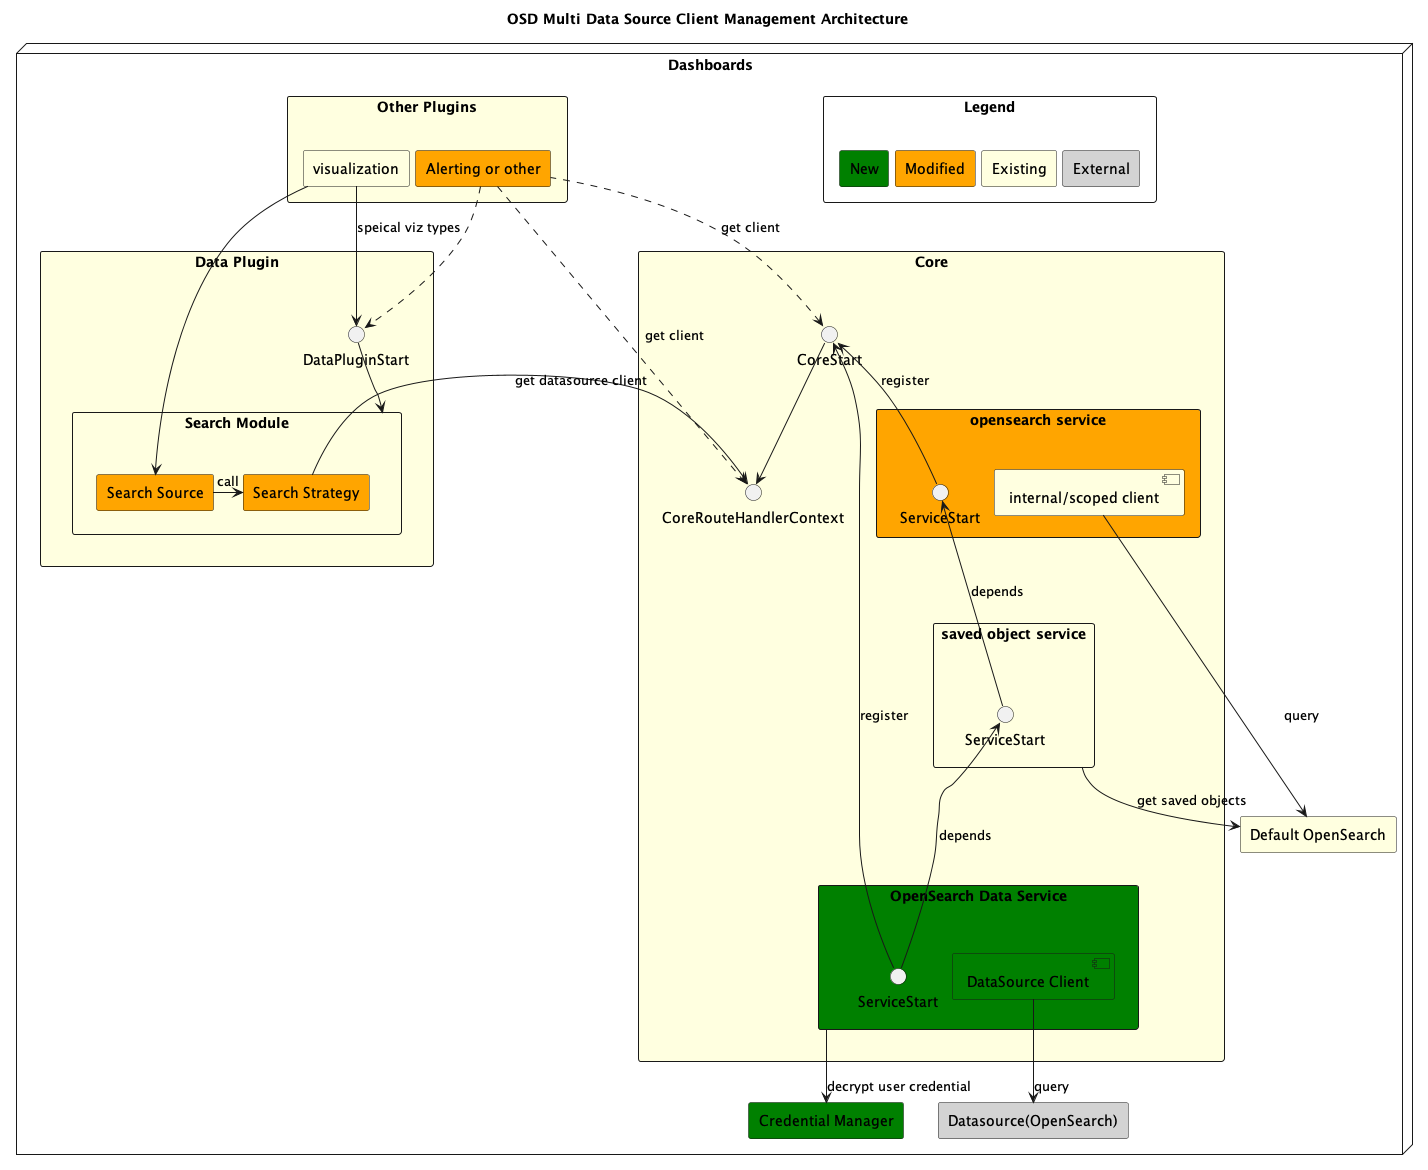
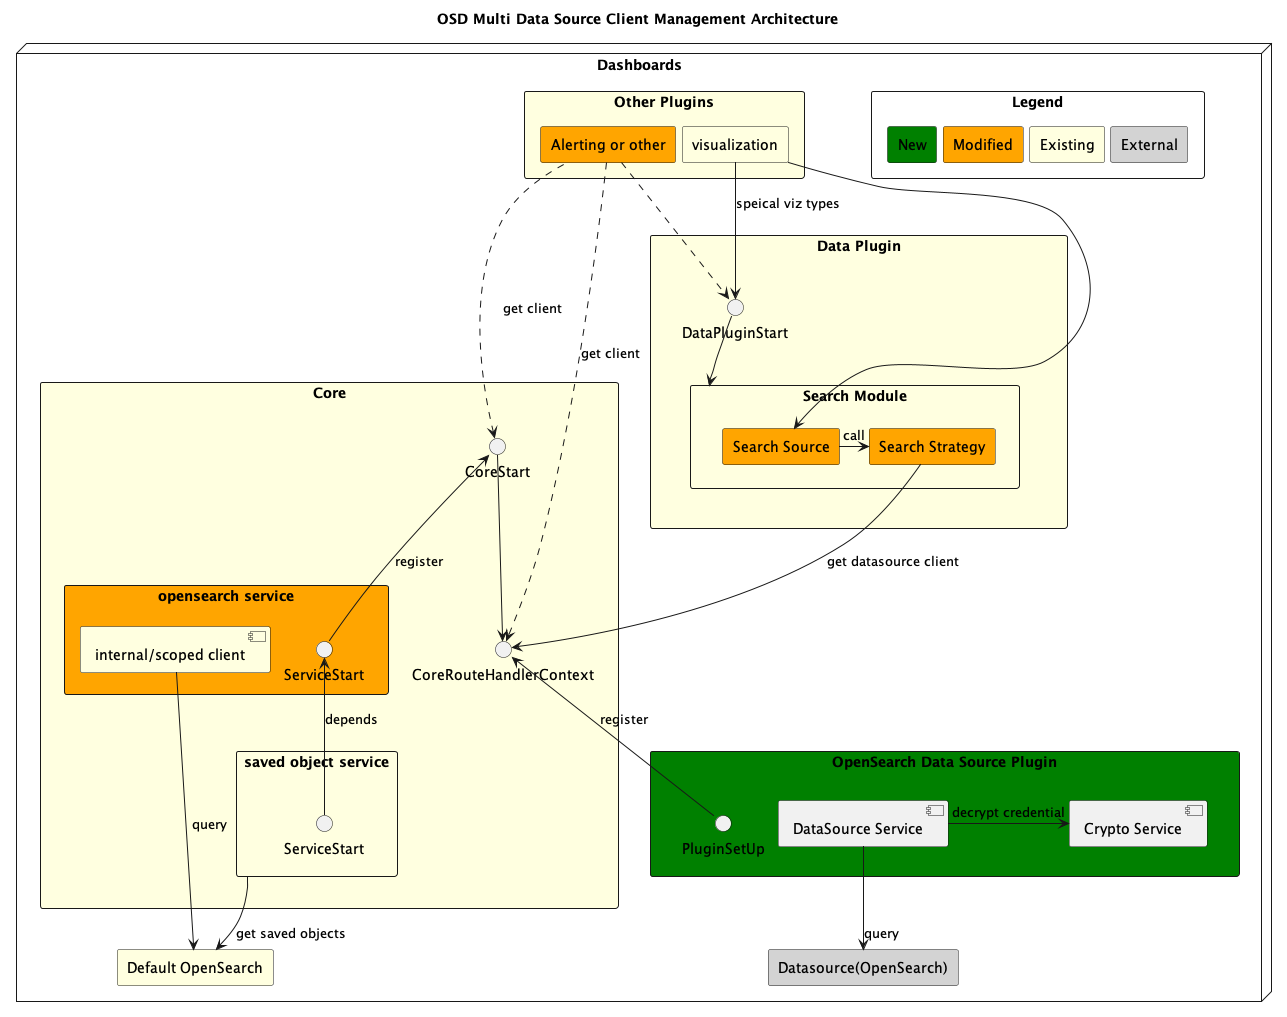
update doc

diff --git a/docs/multi-datasource/client_management_design.md b/docs/multi-datasource/client_management_design.md
@@ -59,7 +59,7 @@ dataSourceClient.ping();
 ```
 
 **2. How to expose datasource clients to callers through clean interfaces?**
-We create an `opensearch_data_service` in core. Similar to existing `opensearch_service`, which provides client of default OS cluster. This new service will be dedicated to provide clients for data sources. Following the same paradigm we can register this new service to `CoreStart`, `CoreRouteHandlerContext` , in order to expose data source client to plugins and modules. The interface is exposed from new service, and thus it doesn’t mess up with any existing services, and keeps the interface clean.
+We create a `data source service`. Similar to existing `opensearch service` in core, which provides client of default OS cluster. This new service will be dedicated to provide clients for data sources. Following the same paradigm we can register this new service to `CoreStart`, `CoreRouteHandlerContext` , in order to expose data source client to plugins and modules. The interface is exposed from new service, and thus it doesn’t mess up with any existing services, and keeps the interface clean.
 
 ```
 *// Existing*
@@ -80,159 +80,96 @@ The context is that user can only turn on/off multiple datasource feature by upd
 - For datasources with different endpoint, user client Pooling (E.g. LRU cache)
 - For data sources with same endpoint, but different user, use connection pooling strategy (child client) provided by opensearch-js.
 
-### 4.1 Create `core → opensearch_data_service.ts -> class: OpenSearchDataService`
+**5.Where should we implement the core logic?**
+Current `opensearch service` exists in core. The module we'll implement has similarity function wise, but we choose to implement `data source service` in plugin along with `crypto` service for the following reasons.
 
-- Extend from [OpenSearchService](https://github.com/opensearch-project/OpenSearch-Dashboards/blob/3d6dd638d021f383a4c6ab750c83a1d30d3787b3/src/core/server/opensearch/opensearch_service.ts#L60) to reuse utility functions
-- Instance variables
-  - SavedObjectClient
-  - DataSourceClusterClient
-- Add `savedObject` as dependency, E.g
-  - interface StartDeps {
-    savedObjects: InternalSavedObjectsServiceStart;
-    }
-- **setup()**:
-  - Override setup() to not to initialize anything non-related to datasource, such as scoped client， internal client and legacy-related
-  - Initialize `DataSourceClient` object
-  - **return:** nothing
-- **start():**
-  - **input**: `{ savedObjects, auditTrail }: StartDeps`
-  - Initialize saved object client.
-  - **return:** createOrFindClient(<datasourceId>)
-- **stop():** close all datasource clients and child clients
-- Other
-  - Register this service to related interfaces such as `CoreStart/CoreSetup`
-  - Create corresponding service interfaces such as `InternalOpenSearchDataServiceStart`
+1. Data source is a feature that can be turned on or off. Plugin is born for such plugable use case.
+2. We don't mess up with OpenSearch Dashboards core, since this is an experimental feature, the potential risk of breaking existing behavior will be lower if we use plugin. Worst case, user could just uninstall the plugin.
+3. Complexity wise, it's about the same amount of work.
 
-### 4.2 Refactor `core → opensearch -> client` module
+### 4.1 Data Source Plugin
 
-Currently [`core-opensearch`](https://github.com/opensearch-project/OpenSearch-Dashboards/tree/d7004dc5b0392477fdd54ac66b29d231975a173b/src/core/server/opensearch)module contains 2 major parts.
+Create a data source plugin that only has server side code, to hold most core logic of data source feature. Including data service, crypto service, and client management. A plugin will have all setup, start and stop as lifecycle.
 
-- **opensearch_service**: hold a `ClusterClient` instance
-- **[client module](https://github.com/opensearch-project/OpenSearch-Dashboards/tree/d7004dc5b0392477fdd54ac66b29d231975a173b/src/core/server/opensearch/client)**: the utilities and interfaces for creating `ClusterClient`
-  - internalClient: read only. (create as OpenSearch Dashboards internal user, system user)
-  - ScopedClient: read only. (as current user)
-  - asScoped(): function that create child clients of the read only ScopeClient for current user
+**Functionality**
 
-We’ll only make changes in the client module
+- Setup plugin configuration such as `data_source.enabled`
+- Define and register datasource as a new saved object type
+- Initiate data source service and crypto service
+- Register API to get datasource client to core route handler context
+- Setup logging and auditing
+- Stop all running services in plugin `stop()` phase
 
-**4.2.1 Create `IDataSourceClient` Interface**
+### 4.1 Data Source Service
 
-Similar to Existing `IClusterClient`
+We need to create a data source service in the data source plugin, to provide the main functionality and APIs for callers to `getDataSourceClient()`. A service in a plugin will have all setup, start and stop as lifecycle.
+
+**Functionality**
+
+- Initialize client pool as empty data structure but with size mapped to user config value. (`data_source.clientPool.size`)
+- Configuring a data source client and expose as `getDataSourceClient()` from service level.
+
+### 4.2. Data source client
+
+We need to configure the data source client by either creating a new one, or looking up the client pool.
+
+**Functionality**
+
+- Get data source meta info: Use saved object client to retrieve data source info from OpenSearch Dashboards system index by id, and parse results to `DataSource` object.
+
+  ```ts
+  {
+    title: ds-sample;
+    description?: data source;
+    endpoint: http://opensearch.com;
+    auth: {
+      type: "Basic Auth"
+      username: "user name"
+      password: "encrypted content"
+    };
+  }
+  ```
+
+- Get root client: Look up client Pool by **endpoint**, return client if existed. If misses, we create new client instance and load into pool. At this step, the client won't have any auth info.
+
+- Get credentials: Call crypto service utilities to **decrypt** user credentials from `DataSource` Object.
+- Assemble the actual query client: With auth info and root client, we’ll leverage the openearch-js connection pooling strategy to create the actual query client from root client by `client.child()`.
+
+#### 4.2.1 Legacy Client
+
+OpenSearch Dashboards is forked from Kibana 7.10. At the time of the fork happened, there are 2 types of client used in the codebase. One is the new client, which later was migrated as `opensearhc-js`, the other one is the legacy client which is `elasticsearc-js`. Legacy clients are still used many critical features, such as visualization, index pattern management, along with new client.
 
 ```ts
-export interface IClusterClient {
-  readonly asInternalUser: OpenSearchClient;
-  asScoped: (request: ScopeableRequest) => IScopedClusterClient;
-}
+// legacy client
+context.core.opensearch.legacy.client.callAsCurrentUser;
+// new client
+context.core.opensearch.client.asCurrentUser;
 ```
 
-`IDataSourceClient` represents an OpenSearch data source API client created by the platform. It allows to call API on behalf of the user defined in the datasource saved
+Since deprecating legacy client could be a bigger scope of project, multiple data source feature still need to implement a substitute for it as for now. Implementation should be done in a way that's decoupled with data source client as much as possible, for easier deprecation. Similar to [opensearch legacy service](https://github.com/opensearch-project/OpenSearch-Dashboards/tree/main/src/core/server/opensearch/legacy) in core.
 
 ```ts
-export interface IDataSourceClient {
-  asDataSource: (dataSourceId: String) => Promise<OpenSearchClient>;
-  close: () => Promise<void>;
-}
+context.dataSource.opensearch.legacy.getClient(dataSourceId);
 ```
-
-**4.2.2 Create `DataSourceClient` Class**
-
-- extends `IDataSourceClient`
-- Add local variable **isDataSourceEnabled**
-  - The value of flag is mapped to the boolean configuration “enable_multi_datasource” in `opensearch_dashboards.yml`. Flag to determine if feature is enabled. If turned off, any access to dataSourceClient will be rejected and throw error
-- Add local variable **rootDataSourceClientCollection**
-  - Map<datasource id, Client> (initialize as empty or take user config to add Clients)
-- Implement the new function `asDataSource` as shown in above `IDataSourceClient` interface. Params and return type is clear
-
-  - **Functionality**
-    - Throw error if **isDataSourceEnabled == false**
-    - Look up Client Pool by datasource id, return client if existed
-    - Use `Saved_Object` Client to retrieve datas source info from OpenSearch Dashboards system index and parse to `DataSource` object
-    - Call credential manager utilities to **decrypt** user credentials from `DataSource` Object
-    - Create Client using dataSource metadata, and decrypted user credential
-      - Optimization: If same endpoint but different user credential, we’ll leverage the openearch-js connection pooling strategy to create client by `.child()`
 
 ### 4.3 Register datasource client to core context
 
 This is for plugin to access data source client via request handler. For example, by `core.client.search(params)`. It’s a very common use case for plugin to access cluster while handling request. In fact data plugin uses it in its search module to get client, and I’ll talk about it in details in next section.
 
-**4.3.1 Update `RequestHandlerContext` interface**
-
 - **param**
-  - **dataSourceId**: need it to retrieve **datasource info** for either creating new client, or loop up the client pool
+  - **dataSourceId**: need it to retrieve **datasource info** for either creating new client, or look up the client pool
 - **return type:** OpenSearchClient
   ```ts
-  export interface RequestHandlerContext {
-    core: {
-      savedObjects: {
-        client: SavedObjectsClientContract;
-        typeRegistry: ISavedObjectTypeRegistry;
-      };
-      opensearch: {
-        client: IScopedClusterClient;
-        legacy: {
-          client: ILegacyScopedClusterClient;
-        };
-      };
-      opensearchData: {
-        getClient(dataSourceId: String): Promise<OpenSearchClient>; // method
-      };
-      ...
-    };
-  }
-  ```
-
-**4.3.2 Update** **`CoreOpenSearchRouteHandlerContext`** **class**
-
-- Create class `CoreOpenSearchDataRouteHandlerContext`
-
-  ```ts
-  class CoreOpenSearchDataRouteHandlerContext {
-            constructor(
-              private readonly opensearchDataStart: InternalOpenSearchDataServiceStart
-            ) {}
-
-            public getClient(dataSourceId: string) {
-                return async () => {
-                  try {
-                    await this.opensearchDataStart.client.asDataSource(dataSourceId)
-                  }
-              }
-            }
-  ```
-
-- Register to `CoreRouteHandlerContext`
-
-  ```ts
-   export class CoreRouteHandlerContext {
-        #auditor?: Auditor;
-
-        readonly opensearch: CoreOpenSearchRouteHandlerContext;
-        readonly savedObjects: CoreSavedObjectsRouteHandlerContext;
-        readonly uiSettings: CoreUiSettingsRouteHandlerContext;
-        **readonly dataSource CoreOpenSearchDataRouteHandlerContext**
-
-        constructor(
-          private readonly coreStart: InternalCoreStart,
-          private readonly request: OpenSearchDashboardsRequest
-        ) {
-          this.savedObjects = new CoreSavedObjectsRouteHandlerContext(
-            this.coreStart.savedObjects,
-            this.request
-          );
-          this.opensearch = new CoreOpenSearchRouteHandlerContext(
-            this.coreStart.opensearch,
-            this.request,
-          );
-          this.uiSettings = new CoreUiSettingsRouteHandlerContext(
-            this.coreStart.uiSettings,
-            this.savedObjects
-          );
-          this.dataSource = new CoreOpenSearchDataRouteHandlerContext(
-            this.coreStart.opensearchData
-          )
+  core.http.registerRouteHandlerContext(
+      'dataSource',
+      {
+        opensearch: {
+          getClient: (dataSourceId: string) = {
+            ...
+            return dataSourceService.getDataSourceClient()
+          }
         }
-
+      }
   ```
 
 ### 4.4 Refactor data plugin search module to call core API to get datasource client
@@ -267,19 +204,14 @@ client.search(params)
 
 When loading a dashboard with visualizations, each visualization sends at least 1 request to server side to retrieve data. With multiple data source feature enabled, multiple requests are being sent to multiple datasources, that requires multiple clients. If we return a new client **per request**, it will soon fill up the memory and sockets with idle clients hanging there. Of course we can close a client anytime. But the connection is supposed to be kept alive for easy reload and periodic pulling data. Therefore, we should come up with better solution to manage clients efficiently.
 
-#### P0: **const dataSourceClientPool = Map<dataSourceId, client>()**
+#### Client pooling by LRU cache
 
-- Keep all datasource clients in a Map
-- Map enables easy look up. The input for getting a data source client is `dataSourceId`. If a client was created with same datasource, we can easily find it and return to caller. Otherwise we create a new client to return to caller, and add to the Map.
-- While stopping the service, we can close all the connections by looping the Map and calling `client.close()` for each.
+- Key: data source endpoint
+- Value: OpenSearch client object
+- Configurable pool size: `data_source.clientPool.size`, default to 5
+- Use existing js `lru-cache` lib in OpenSearch Dashboards, that enables easy initialization, look up, and dumping outdated client.
+- While stopping the service, we can close all the connections by looping the LRU cache and calling `client.close()` for each.
 - For data sources with same endpoint, but different user, use connection pooling strategy (child client) provided by opensearch-js.
-
-#### P1: Client pooling by LRU cache
-
-- key: data source endpoint
-- value: OpenSearch client object
-- configurable pool size
-- use existing js lru-cache lib
 
 ```ts
 import LRUCache from 'lru-cache';
